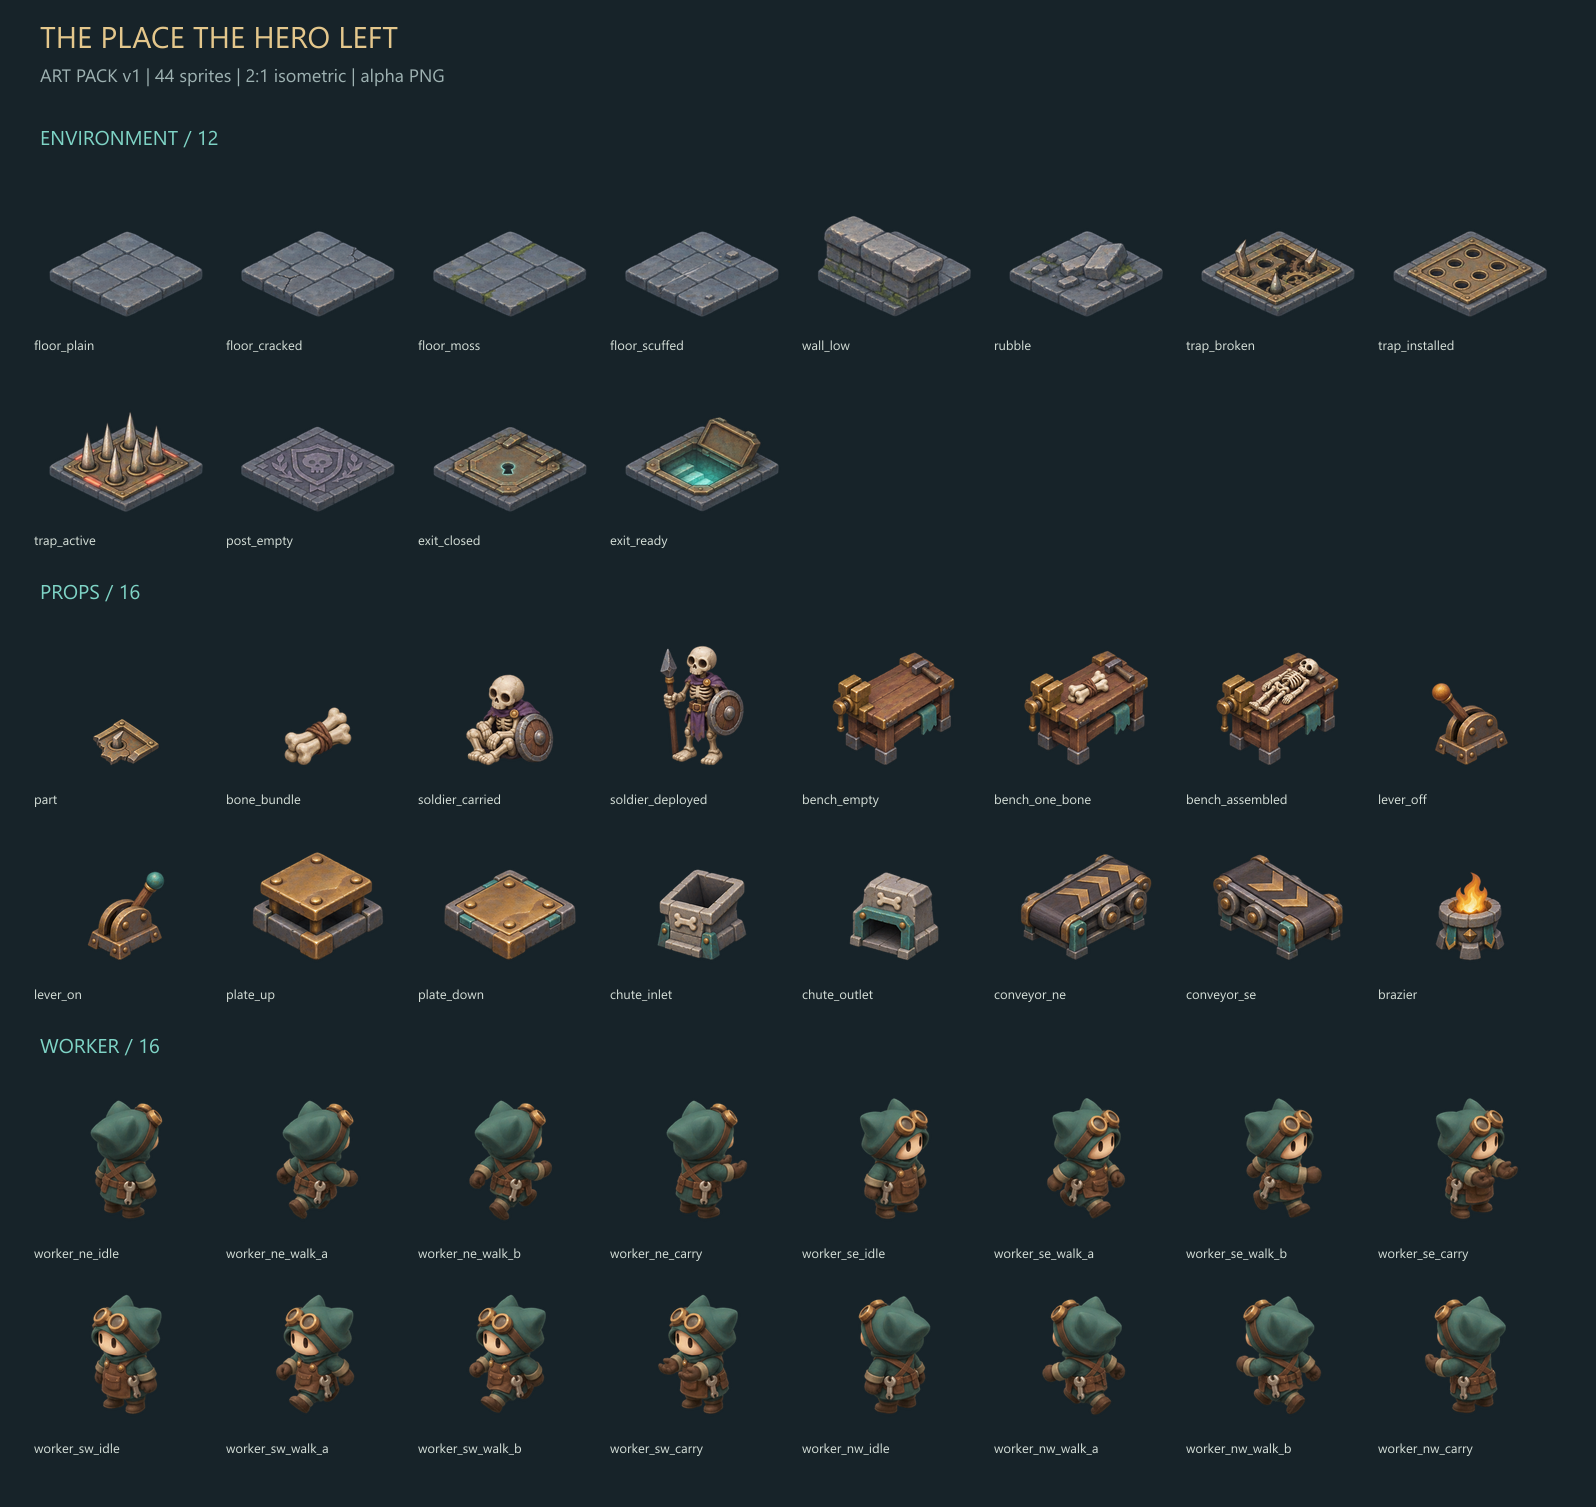
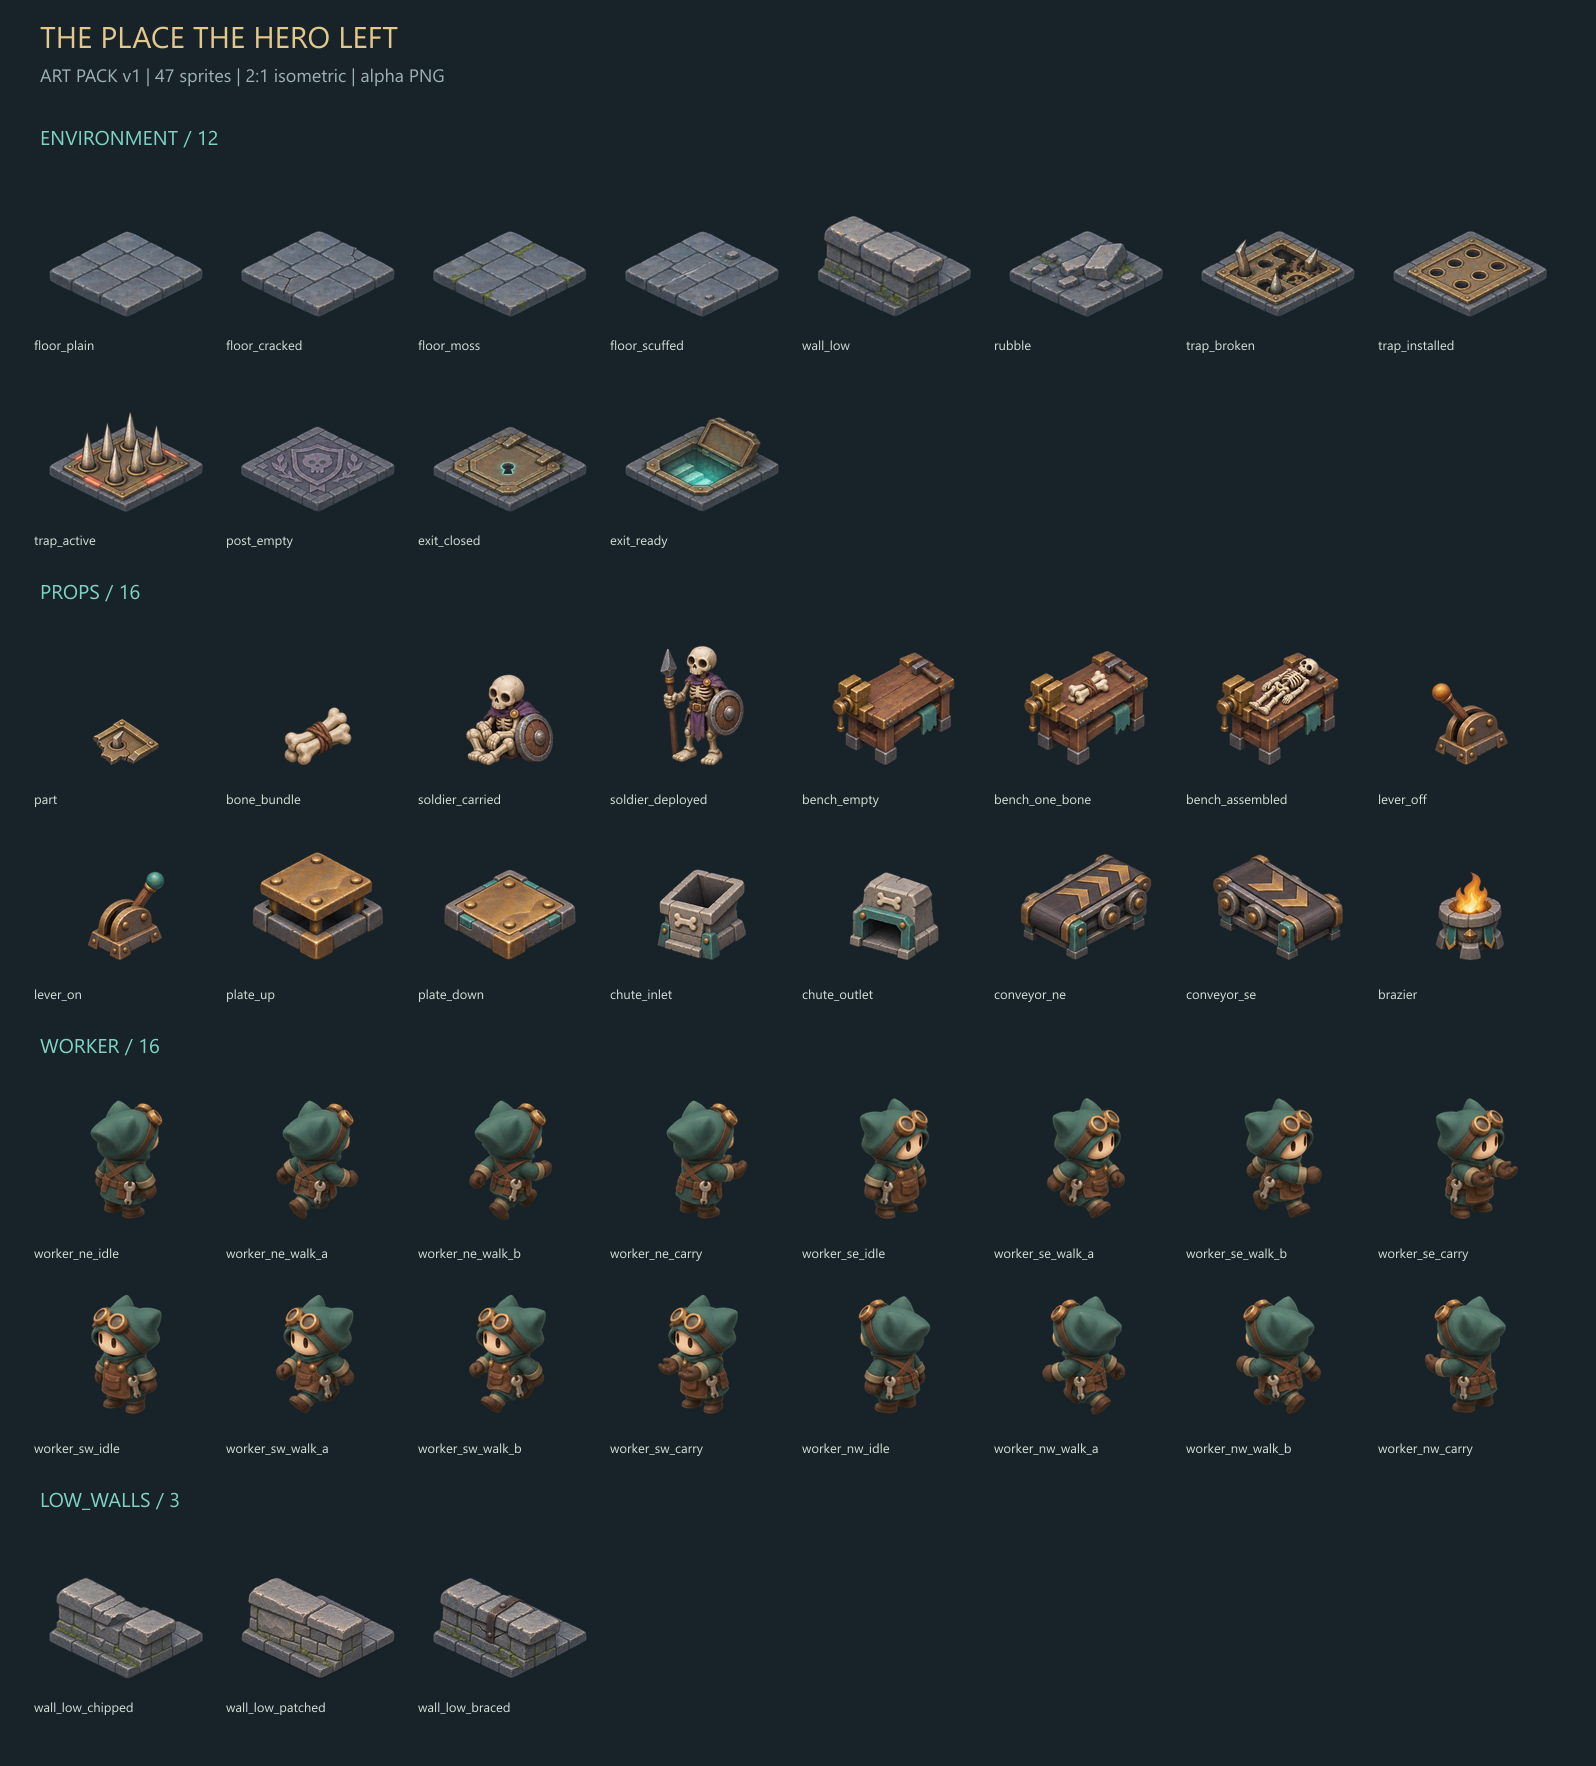
art: 낮은 통로 벽 다양화 및 바닥 배치 복원

diff --git a/game/view.py b/game/view.py
@@ -10,7 +10,7 @@ from game.model import Game
 from game.art import Art
 from game.scenery import draw_scars, draw_tinted, floor_style, wall_style
 from game.navigation import ClickNavigator, IsoBoard, find_path
-from game.themes import boundary_walls, scene_for, themed_floor
+from game.themes import boundary_walls, low_wall_sprite, scene_for, themed_floor
 from game.layout import WIDTH, HEIGHT, BOARD_BOTTOM, BOARD_TOP
 
 INK = (226, 230, 219)
@@ -224,6 +224,9 @@ class View:
                 tile, tint = themed_floor(scene, pos, near_trap) if scene else floor_style(pos, near_trap)
                 if pos in level.walls:
                     wall_sprite, wall_tint = wall_style(pos)
+                    low_wall = low_wall_sprite(scene, pos)
+                    if wall_sprite == "wall_low":
+                        wall_sprite = low_wall
                     faces = boundary_walls(scene, pos, level) if scene else []
                     if scene:
                         wall_tint = tuple(scene["wall_tint"])
@@ -232,7 +235,7 @@ class View:
                             objects.append((depth, 0, face, sx, sy))
                         # 벽면은 칸 뒤쪽에만 서 있으므로 막힌 칸 전체를 석축으로 채운다.
                         # 일반 바닥만 남기면 외곽 벽 바로 앞도 걸을 수 있는 것처럼 보인다.
-                        objects.append((depth, 0.1, "wall_low", sx, sy))
+                        objects.append((depth, 0.1, low_wall, sx, sy))
                         wall_tints[(sx, sy)] = tuple(round(153 + channel * 0.4) for channel in wall_tint)
                     elif wall_sprite == "rubble":
                         tile, tint = wall_sprite, wall_tint
@@ -339,7 +342,7 @@ class View:
                                               sx + 84 * scale, sy + 114 * scale)))
                 continue
             if sprite != "player":
-                if (sx, sy) in wall_tints and (sprite == "wall_low" or "_wall_" in sprite):
+                if (sx, sy) in wall_tints and (sprite.startswith("wall_low") or "_wall_" in sprite):
                     draw_tinted(self.art, sprite, sx, sy, scale, wall_tints[(sx, sy)])
                 else:
                     self.art.draw(sprite, sx, sy, scale)

diff --git a/game/themes.py b/game/themes.py
@@ -17,12 +17,6 @@ def _catalog():
 def _checked_scene(identifier, walls):
     scene = _catalog().get(identifier)
     if scene:
-        floor_cells = set()
-        for entry in scene.get("floor_overrides", ()):
-            pos = tuple(entry["cell"])
-            if pos in walls or pos in floor_cells or entry["sprite"] not in scene["floors"]:
-                raise ValueError(f"{identifier}: 바닥 장식은 중복 없는 통로 칸과 등록된 바닥 그림을 사용해야 합니다.")
-            floor_cells.add(pos)
         for decoration in scene["decorations"]:
             if tuple(decoration["cell"]) not in walls:
                 raise ValueError(f"{identifier}: 장식은 막힌 벽칸에만 배치해야 합니다.")
@@ -41,15 +35,18 @@ def scene_for(level):
 
 def themed_floor(scene, pos, near_trap=False):
     """기본 바닥을 넓게 남기고, 고정된 일부 칸에만 장식 문양을 배치한다."""
-    for entry in scene.get("floor_overrides", ()):
-        if tuple(entry["cell"]) == pos:
-            return entry["sprite"], tuple(scene["floor_tint"])
     floors = scene["floors"]
     choice = _pattern(pos) % 100
     index = 0 if choice < 68 or near_trap else 1 if choice < 82 else 2 if choice < 94 else 3
     if scene["name"] == "왕실 납골당" and pos[0] == 2 and not near_trap:
         index = 3
     return floors[index], tuple(scene["floor_tint"])
+
+
+def low_wall_sprite(scene, pos):
+    """선택한 방의 낮은 벽에 고정된 변형을 섞는다. 충돌 칸은 바꾸지 않는다."""
+    variants = scene.get("low_wall_variants") if scene else None
+    return variants[(_pattern(pos) >> 6) % len(variants)] if variants else "wall_low"
 
 
 def boundary_walls(scene, pos, level):

diff --git a/tools/art/check.py b/tools/art/check.py
@@ -87,7 +87,8 @@ def main():
             "scope": "Actual SDL texture loading, drawing and atlas clip comparison; not game integration or playtesting.",
         }
         (ROOT / "runtime-validation.json").write_text(json.dumps(report, indent=2) + "\n", encoding="utf-8")
-        print(f"PASS: pico2d loaded 47 images; drew 44 sprites and 44 atlas clips; max channel difference {max_error}.")
+        print(f"PASS: pico2d loaded {len(sprites) + len(atlases)} images; "
+              f"drew {len(sprites)} sprites and atlas clips; max channel difference {max_error}.")
     finally:
         # Release SDL textures before destroying their renderer.
         sprites.clear()

diff --git a/assets/art_v1/README.md b/assets/art_v1/README.md
@@ -1,6 +1,6 @@
 # 용사가 지나간 자리 — 시각 에셋 1차 팩
 
-2026-11-08 제작. 기존 기획의 2.5D 던전 복구 퍼즐을 위한 **투명 PNG 44개와 정렬된 아틀라스 3장**이다. 청록색 수리공, 황동 장치, 회청색 석재, 상아색 뼈, 보라색 초소를 사용한다. 캐릭터와 화풍은 이번에 제안한 1차 디자인이다.
+2026-11-08 최초 제작, 2026-11-09 낮은 벽 변형 추가. 기존 기획의 2.5D 던전 복구 퍼즐을 위한 **투명 PNG 47개와 정렬된 아틀라스 4장**이다. 청록색 수리공, 황동 장치, 회청색 석재, 상아색 뼈, 보라색 초소를 사용한다. 캐릭터와 화풍은 이번에 제안한 1차 디자인이다.
 
 ![입문 3번 방 에셋 조립 예시](previews/room_composition.png)
 
@@ -10,14 +10,14 @@
 
 | 폴더 | 수량 | 내용 |
 | --- | ---: | --- |
-| `tiles/` | 12 | 바닥 4종, 낮은 벽, 잔해, 함정 파손·설치·가동, 빈 초소, 출구 닫힘·준비 |
+| `tiles/` | 15 | 바닥 4종, 낮은 벽 4종, 잔해, 함정 파손·설치·가동, 빈 초소, 출구 닫힘·준비 |
 | `objects/` | 16 | 부품, 뼈 묶음, 운반·배치 병사, 작업대 3상태, 레버 2상태, 발판 2상태, 투입구 입·출력, 벨트 2방향, 화로 |
 | `characters/worker/` | 16 | NE·SE·SW·NW 각 방향의 대기·걷기 A·걷기 B·운반 자세 |
-| `atlases/` | 3 | 256px 셀로 재정렬한 환경·물체·캐릭터 아틀라스 |
-| `sources/` | 4 PNG + JSON | 최초 아틀라스 3장, 교체용 부품 원본 1장과 전체 프롬프트. 원본 PNG는 보존한다. |
+| `atlases/` | 4 | 256px 셀로 재정렬한 환경·물체·캐릭터·낮은 벽 아틀라스 |
+| `sources/` | 7 PNG + JSON | 최초 아틀라스 3장, 교체용 부품 원본 1장, 낮은 벽 원본 3장과 전체 프롬프트. 원본 PNG는 보존한다. |
 | `previews/` | 3 | 전체 목록, 입문 3번 방 조립 예시, 4×4 타일 연결 검토 |
 
-개별 PNG는 모두 **256×256 RGBA8**이다. 환경 아틀라스는 **1024×768**, 물체·캐릭터 아틀라스는 **1024×1024**다. 자세한 파일·크기·기준점·SHA-256·프레임 좌표는 [manifest.json](manifest.json)에 기록한다.
+개별 PNG는 모두 **256×256 RGBA8**이다. 환경 아틀라스는 **1024×768**, 물체·캐릭터 아틀라스는 **1024×1024**, 추가 낮은 벽 아틀라스는 **1024×256**이다. 자세한 파일·크기·기준점·SHA-256·프레임 좌표는 [manifest.json](manifest.json)에 기록한다.
 
 ![전체 스프라이트 목록](previews/overview.png)
 
@@ -26,6 +26,12 @@
 운반 부품을 함정에서 떨어져 나온 황동 철판 조각으로 교체했다. 기존 함정과 같은 테두리, 리벳, 가시 구멍과 부러진 가시를 사용한다. `objects/part.png`와 물체 아틀라스의 해당 셀에 적용하며, 폭 96px과 바닥 기준점 `(128, 220)`은 유지한다. 파손·설치·가동 함정 타일은 기존 그림을 사용한다.
 
 내장 `image_gen`으로 제작했다. [생성 원본](sources/part-fragment.png)과 [제작·투명 배경 정리 프롬프트](sources/part-fragment-prompts.json)를 보존하며, `tools/art/build.mjs`의 교체 원본 설정으로 재빌드할 수 있다. [바닥 배치](../../docs/screenshots/stage-01-trap-fragment.png)와 [운반 화면](../../docs/screenshots/stage-01-trap-fragment-carried.png)을 실제 SDL 화면에서 확인했다.
+
+### 2026-11-09 낮은 벽의 반복 완화
+
+1번 방 통로 옆 낮은 석축에 깨진 덮개돌(`wall_low_chipped`), 크기가 다른 돌을 끼운 보수 벽(`wall_low_patched`), 녹슨 철띠 보강 벽(`wall_low_braced`)을 추가했다. 기존 `wall_low`와 동일한 표시 영역 224×147과 기준점 `(128, 160)`으로 정렬한다. 원래 벽 및 잔해와 섞어 사용하며, 외곽 높은 벽 앞의 석축에도 적용한다. 좌표에 따라 선택이 고정되므로 이동·재시작 때 무늬가 바뀌지 않는다. 다른 방과 충돌 판정은 그대로다.
+
+내장 `image_gen`으로 제작한 [전체 프롬프트](sources/low-wall-prompts.json)와 원본 3장을 보존한다. `node tools/art/build.mjs`로 재빌드한다. 추가 아틀라스는 4×1 셀로, 마지막 셀은 비어 있다. [적용한 게임 화면](../../docs/screenshots/stage-01-varied-low-walls.png)에서 벽 변형을 확인할 수 있다.
 
 ## 좌표와 크기
 
@@ -103,9 +109,9 @@ npm run build --prefix tools/art
 .\.venv\Scripts\python.exe tools/art/check.py --window
 ```
 
-- 빌드: 원본 알파, 44개 셀의 가장자리 잘림, PNG 투명 여백, 출력 범위를 검사한다.
+- 빌드: 원본 알파, 원본 셀과 독립 원본의 가장자리 잘림, PNG 47개의 투명 여백과 출력 범위를 검사한다.
 - 정적 검사: 모든 원본·개별 이미지·아틀라스의 PNG 헤더, 크기, RGBA8, SHA-256을 검사한다.
-- 창 검사: 실제 pico2d/SDL에서 개별 PNG 44개와 아틀라스 3장을 로드한다. 개별 그리기 44개와 아틀라스 클립 그리기 44개의 화면 픽셀을 비교한다.
+- 창 검사: 실제 pico2d/SDL에서 개별 PNG 47개와 아틀라스 4장을 로드한다. 개별 그리기 47개와 아틀라스 클립 그리기 47개의 화면 픽셀을 비교한다.
 - [validation.json](validation.json)은 빌드 검사, [runtime-validation.json](runtime-validation.json)은 SDL 검사 결과다. 런타임 결과는 manifest 해시를 포함한다. 재빌드 후 변경됐다면 창 검사를 다시 실행한다.
 
 타일 연결, 조립 예시, 에셋을 적용한 실제 SDL 시작·완료 화면을 육안으로 확인했다. 기존 규칙 검사 10개와 SDL 키 이벤트를 사용하는 세 방 완료·운반·되돌리기·재시작 검사를 통과했다. 사람이 물리 키보드로 플레이하며 이동 중 가림, 운반물 위치, 걷기 연결감을 조정하는 작업은 남아 있다.

diff --git a/assets/map_pack_v1/README.md b/assets/map_pack_v1/README.md
@@ -2,9 +2,9 @@
 
 2026-11-08 제작. 기존 `art_v1`의 수리공·퍼즐 장치와 조합하기 위한 맵 장식 팩이다. 테마마다 바닥 4종, 벽 4종, 독립 소품 8종을 제공한다. 프로토타입 0.7의 여섯 플레이 맵에 테마와 소품을 적용했다. [실제 게임 화면 비교](../../docs/screenshots/themes/overview.png)에서 확인할 수 있다.
 
-2026-11-09 제련소에 긴 판석과 불규칙한 돌 바닥 2종을 추가했다. 제련소는 바닥 6종·벽 4종·소품 8종이며, 다른 테마 구성은 그대로다. 1번 방 통로에 `data/scenery.json`의 `floor_overrides`로 직접 배치해 구간별 석재 배열을 달리하고, 황동 철판은 레버 밑에만 남겼다. [현재 1번 방](../../docs/screenshots/stage-01-varied-corridor.png)에서 확인할 수 있다. 이동·충돌·함정 규칙은 바꾸지 않았다.
+2026-11-09 제련소에 긴 판석과 불규칙한 돌 바닥 2종을 추가했다. 제련소는 바닥 6종·벽 4종·소품 8종이며, 다른 테마 구성은 그대로다. 이후 사용자가 수정 대상을 낮은 벽으로 명확히 지정하여, 1번 방 바닥 배치와 선택 코드는 원래대로 복원했다. 추가 바닥 에셋과 [당시 검토 화면](../../docs/screenshots/stage-01-varied-corridor.png)은 보존한다. [현재 1번 방](../../docs/screenshots/stage-01-varied-low-walls.png)은 `art_v1`의 낮은 벽 변형 3종을 적용한 상태다.
 
-추가 에셋은 내장 `image_gen`으로 제작했다. 원본 `forge/source/floor-slabs.png`, `forge/source/floor-patchwork.png`와 [전체 프롬프트](forge/source/floor-variation-prompts.json)를 보존한다. `source/spec.json`의 `extra_floors`를 읽어 기존 제작 명령으로 함께 빌드한다. 새 바닥은 현재 1번 방에서만 사용한다.
+추가 에셋은 내장 `image_gen`으로 제작했다. 원본 `forge/source/floor-slabs.png`, `forge/source/floor-patchwork.png`와 [전체 프롬프트](forge/source/floor-variation-prompts.json)를 보존한다. `source/spec.json`의 `extra_floors`를 읽어 기존 제작 명령으로 함께 빌드한다. 추가 바닥 2종은 현재 플레이 맵에서 사용하지 않는다.
 
 ![네 가지 테마 조립 예시](theme_comparison.png)
 
